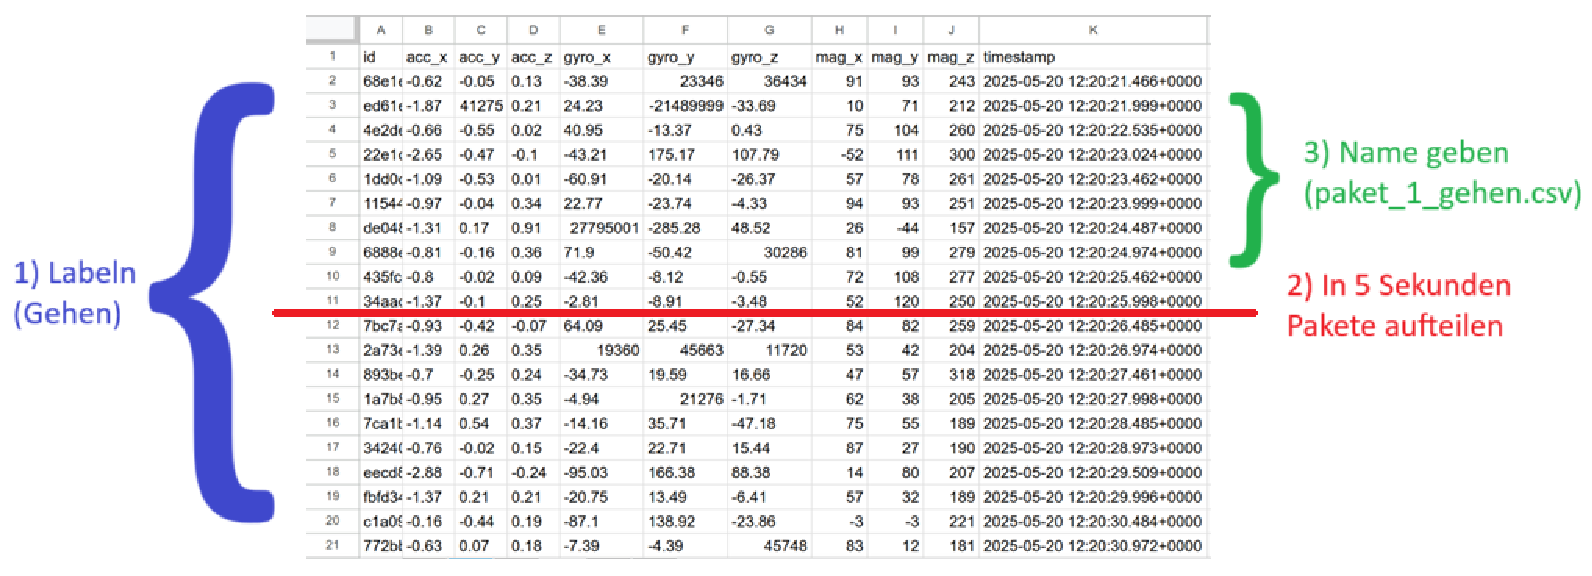
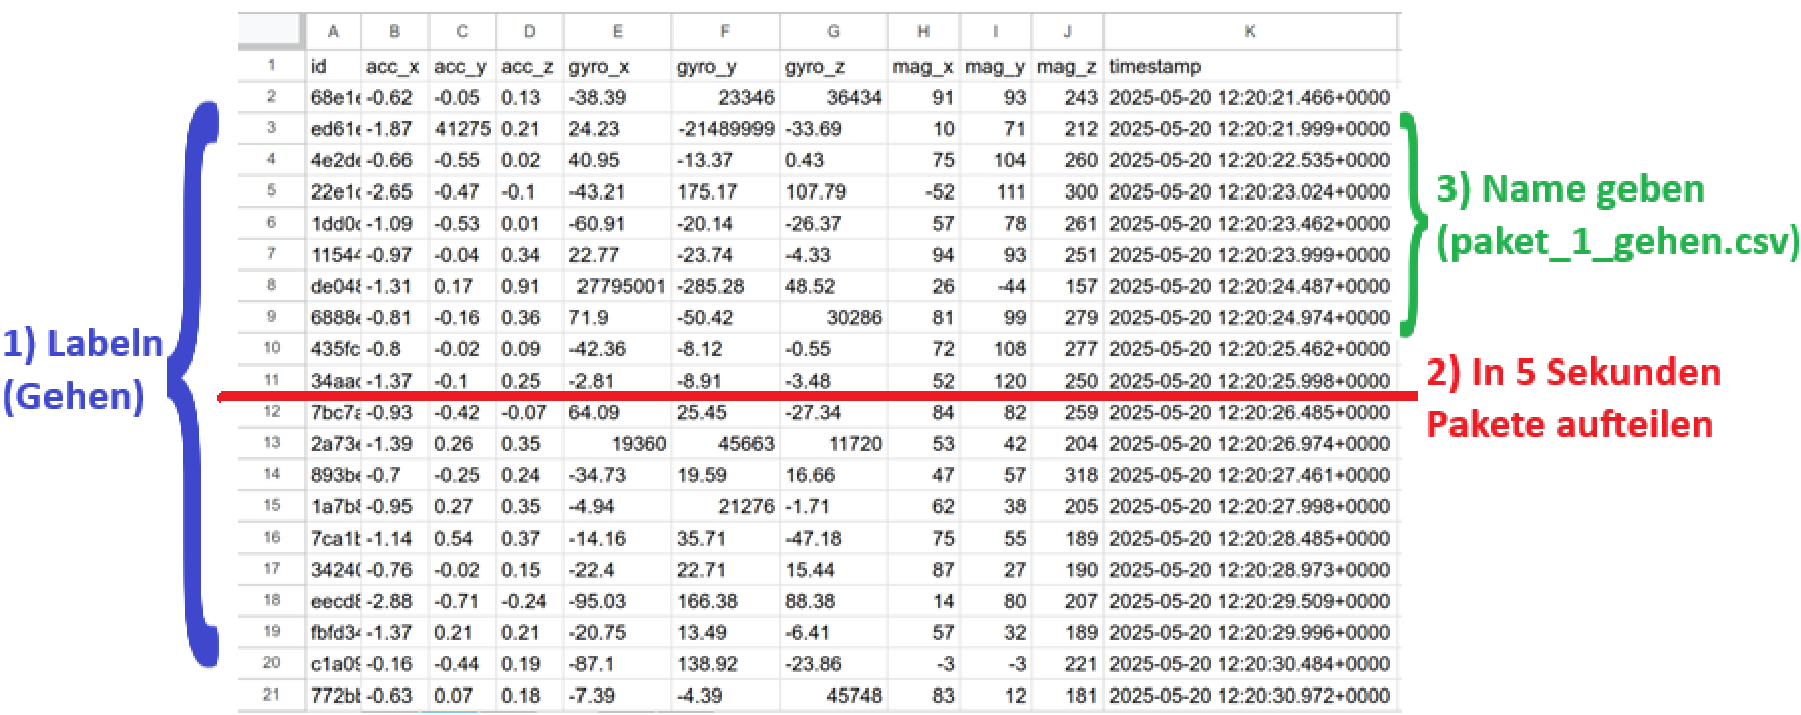
refactor: overfitting explaination location

Changed region(s): [[0.0, 0.0, 1.0, 1.0]]

diff --git a/writing/LaTeX/chapters/ergebnis/ergebnis.tex b/writing/LaTeX/chapters/ergebnis/ergebnis.tex
@@ -14,7 +14,7 @@ Unsere Klssen sind mit diesen Mengen vertretten, also das ist die folgende anzah
 Die Klasse "gehen\dq\, kommt etwa doppelt so häufig vor wie die beiden anderen. Das kann den Klassifikator beeinflussen, da ihm mehr Daten für die Klasse "gehen\dq\, vorliegen. Beim Random Forest bedeutet dies, dass mehr Entscheidungsbäume auf die Klasse "gehen\dq\, spezialisiert sein könnten, was zu einer besseren Klassifikation dieser Klasse führen kann. Allerdings könnte dies auch zu einer Verzerrung führen, durch die die anderen Klassen weniger gut erkannt werden. Um dies auszugleichen, wurde beim Classifier die Option "class\_weight=‘balanced‘\dq\, gewählt, um sicherzustellen, dass jede Klasse gleichmäßig berücksichtigt wird. Diese Methode reduziert die Verzerrung durch ungleiche Klassenhäufigkeiten und verbessert die Leistung des Modells für alle Klassen. Bei der späteren Konfusionsmatrix sind jedoch kleine Nebenwirkungen erkennbar.
 
 \subsection{Overfitting}
-Die Größe von 344 Paketen ist für unseren Fall ausreichend. Trotzdem sollte auf Overfitting geachtet werden. Dieses tritt auf, wenn ein Modell zu stark an die Trainingsdaten angepasst wird und dabei auch das Rauschen und die Besonderheiten der Trainingsdaten lernt, anstatt allgemeingültige Muster zu erkennen. Dies führt dazu, dass das Modell auf den Trainingsdaten eine hohe Genauigkeit aufweist, auf neuen, unbekannten Daten jedoch schlecht generalisiert. \cite{dietterich1995overfitting} Um das Problem zu lösen, wurde eine fünffache stratifizierte Kreuzvalidierung durchgeführt, um die Generalisierungsfähigkeit des Modells zu überprüfen. Dazu wurde der Datensatz in fünf Teile aufgeteilt und das Modell mehrfach trainiert und validiert, um sicherzustellen, dass es auf verschiedenen Teilmengen der Daten gut funktioniert. Die erzielten Cross-Validation-Accuracy-Scores sind: [0,98550725; 0,94202899; 0,94202899; 0,95652174; 0,91176471]. Die durchschnittliche Genauigkeit beträgt somit 0,95 mit einer Standardabweichung von 0,02.
+Die Größe von 344 Paketen ist für unseren Fall ausreichend. Trotzdem sollte auf Overfitting geachtet werden. Um das Problem zu lösen, wurde eine fünffache stratifizierte Kreuzvalidierung durchgeführt, um die Generalisierungsfähigkeit des Modells zu überprüfen. Dazu wurde der Datensatz in fünf Teile aufgeteilt und das Modell mehrfach trainiert und validiert, um sicherzustellen, dass es auf verschiedenen Teilmengen der Daten gut funktioniert. Die erzielten Cross-Validation-Accuracy-Scores sind: [0,98550725; 0,94202899; 0,94202899; 0,95652174; 0,91176471]. Die durchschnittliche Genauigkeit beträgt somit 0,95 mit einer Standardabweichung von 0,02.
 Diese Ergebnisse zeigen, dass das Modell stabil und zuverlässig ist, da die Genauigkeit über die verschiedenen Folds hinweg konsistent hoch bleibt und die Standardabweichung gering ist.
 
 \section{Analyse mit Grafiken}

diff --git a/writing/LaTeX/chapters/machineLearning/machineLearning.tex b/writing/LaTeX/chapters/machineLearning/machineLearning.tex
@@ -49,7 +49,7 @@ Das Ziel besteht darin, ein System zu entwickeln, das die aktuelle Bewegung eine
 Für die Klassifizierung der Bewegungsdaten wurden verschiedene Machine Learning Modelle evaluiert. Die Wahl des geeigneten Modells hängt von mehreren Faktoren ab, darunter die Genauigkeit, die Trainingszeit und die Eignung für Echtzeitanwendungen.
 
 \subsection{Evaluierte Modelle}
-Im Folgenden werden die meistgenutzten überwachten Machine-Learning-Modelle betrachtet und ihre jeweiligen Vor- und Nachteile analysiert, um das passende Modell zu finden.
+Im Folgenden werden die meistgenutzten überwachten Machine-Learning-Modelle betrachtet und ihre jeweiligen Vor- und Nachteile analysiert, um das passende Modell zu finden. Ein wichtiger Aspekt bei der Bewertung dieser Modelle ist das Problem des Overfittings, das auftritt, wenn ein Modell zu stark an die Trainingsdaten angepasst wird und dabei auch das Rauschen und die Besonderheiten der Trainingsdaten lernt, anstatt allgemeingültige Muster zu erkennen. Dies führt dazu, dass das Modell auf den Trainingsdaten eine hohe Genauigkeit aufweist, auf neuen, unbekannten Daten jedoch schlecht generalisiert \cite{dietterich1995overfitting}.
 
 \subsubsection{Decision Trees}
 Decision Trees sind einfache und interpretierbare Modelle, die gut für Klassifizierungsaufgaben geeignet sind. Sie können jedoch zu Overfitting neigen und sind möglicherweise nicht die beste Wahl für komplexe Datensätze. \cite{kingsford2008decision}
